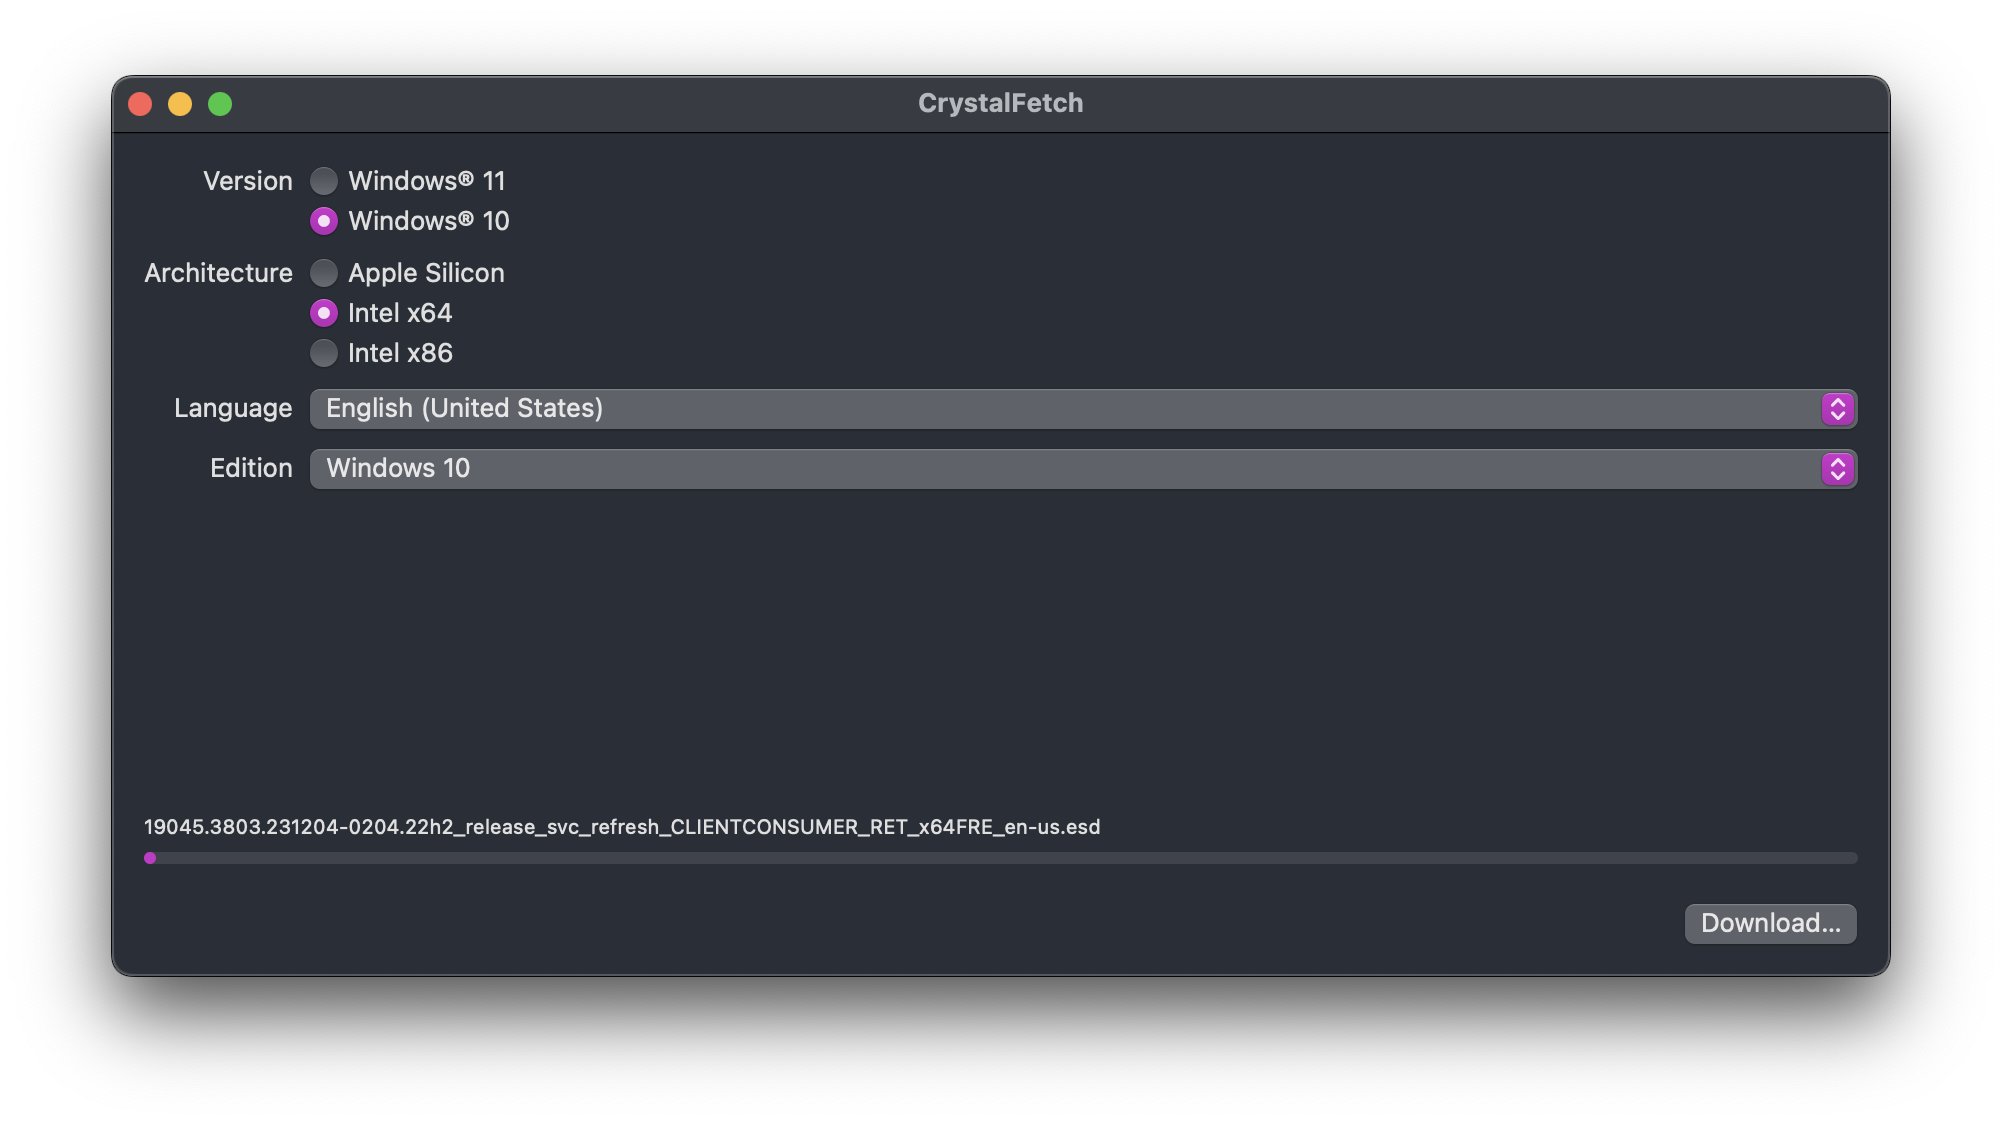
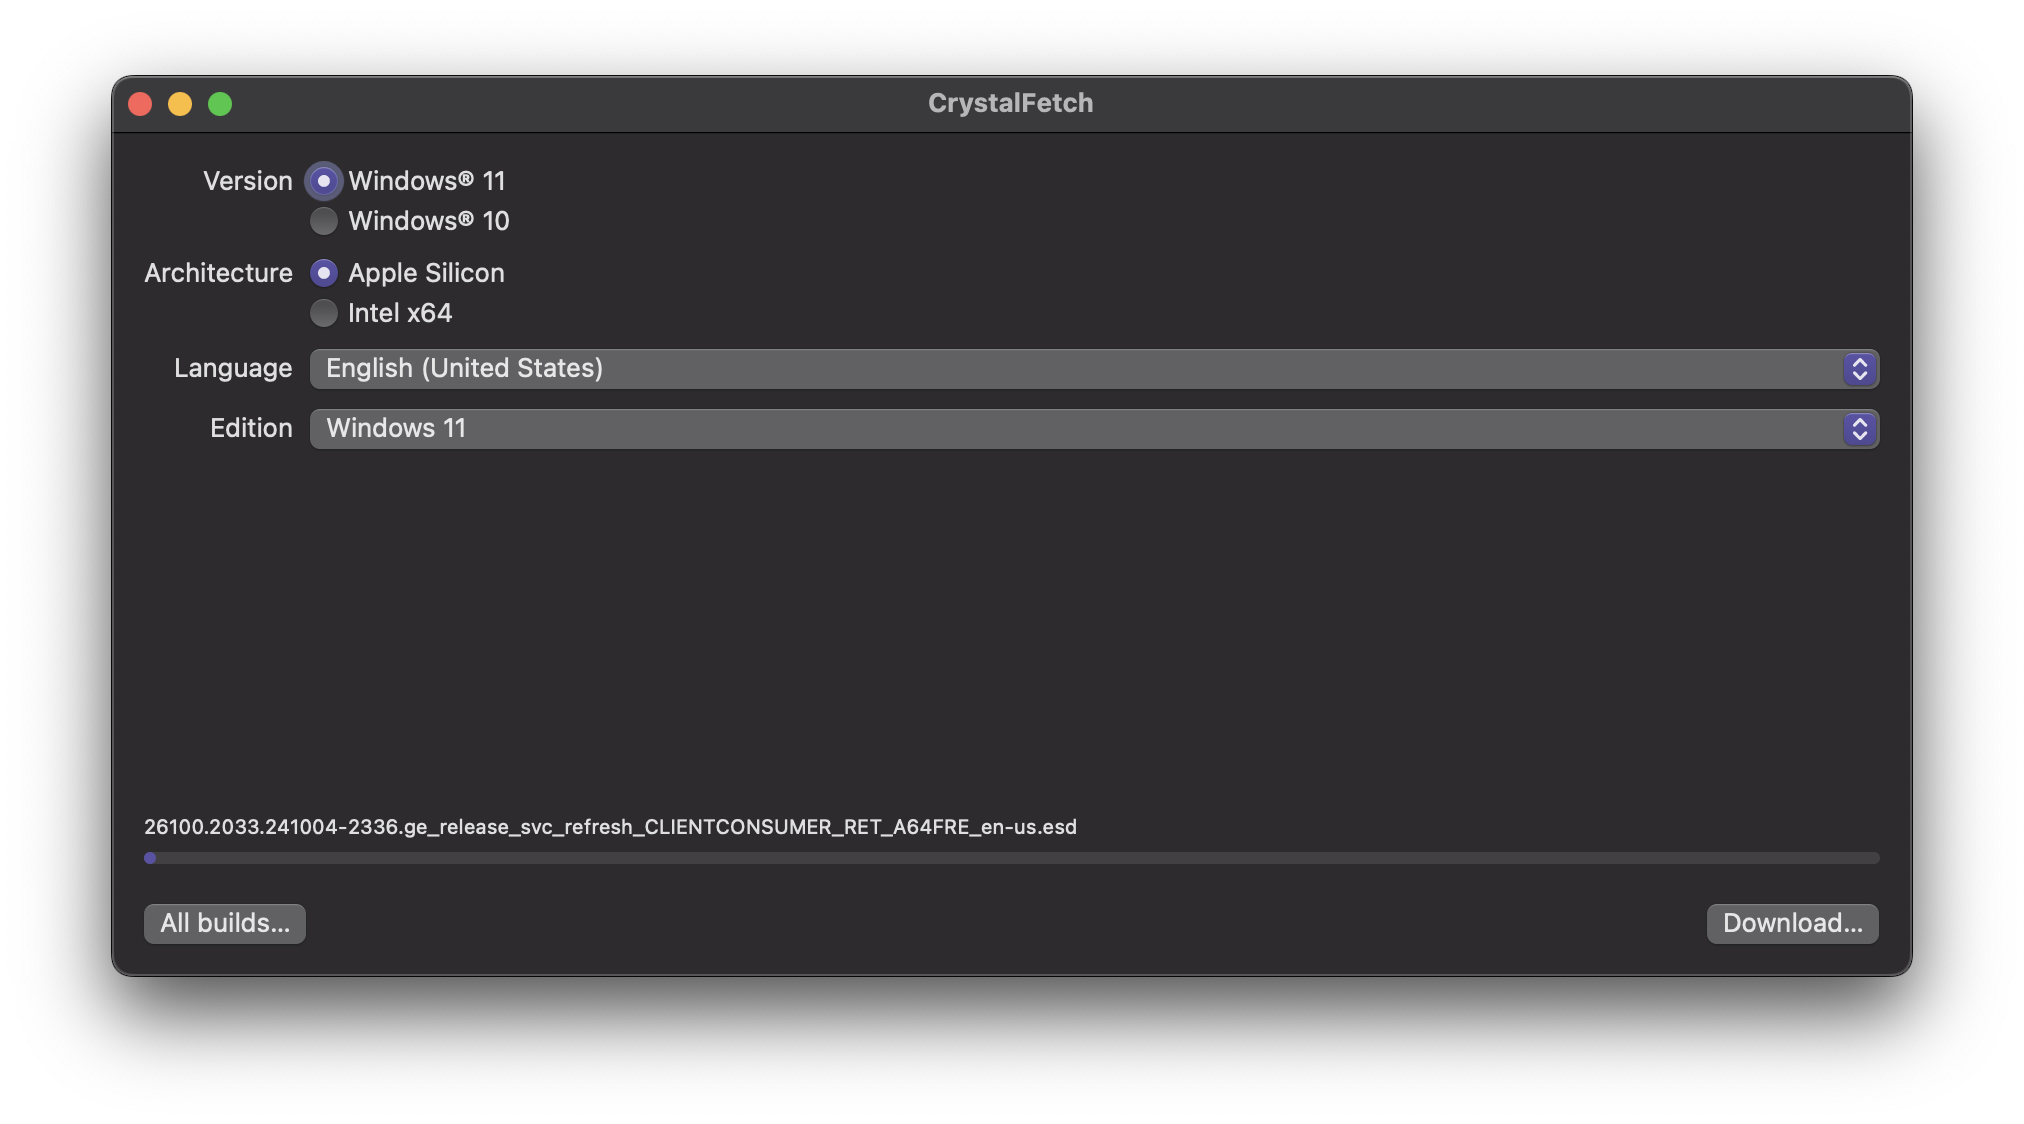
Add virtual machine docs

diff --git a/docs/MacOS/4.virtualization/3.virtual-machine.md b/docs/MacOS/4.virtualization/3.virtual-machine.md
@@ -10,8 +10,8 @@ id: setup-vm
 To install Windows on the virtual machine, you will need a Windows ISO file. You can skip this section if you already have a Windows ISO file.
 
 1. Open the `CrystalFetch` app.
-2. Select `Windows 10` from the list of versions
-3. Select `Intel x64` from the list of architectures
+2. Select `Windows 11` from the list of versions (`Windows 10` should also work, but we recommend using `Windows 11`).
+3. Select `Apple Silicon` from the list of architectures
 4. Select any language you prefer, or leave it as default, which should be `English (United States)`
 5. Press `Download...` to download the Windows ISO file
 6. Select your preferred download location (your `Downloads` folder is probably the default and good enough) and press `Move`.
@@ -25,7 +25,7 @@ To install Windows on the virtual machine, you will need a Windows ISO file. You
    When launching UTM for the first time, you may get a pop-up asking if you want to open it. Press `Open`. You may also get a "What's New" pop-up after it opens. Just press `Continue` to go to the next step.
    :::
 2. Click on `Create New Virtual Machine`
-3. Select `Emulate` and click `Windows`
+3. Select `Virtualize` and click `Windows`
 4. Make sure these settings are selected:
    - `Install Windows 10 or higher` is checked
    - `Import VHDX Image` is unchecked
@@ -33,12 +33,14 @@ To install Windows on the virtual machine, you will need a Windows ISO file. You
    ![UTM](./img/utm_windows.png)
 5. Press `Browse...` and select the Windows ISO file you downloaded earlier, then press `Continue`.
 6. Select the following settings:
-   - `Architecture`: `x86_64`
-   - `System`: `Standard PC (Q35 + ICH9, 2009) (alias of pc-q35-7.2) (q35)`
    - `Memory`: `4096 MB` (4 GB) or more
    - `CPU Cores`: `4` or more
 
-   ![UTM](./img/utm_hardware.png)
+:::note
+We recommend setting the memory to 8 GB and the CPU cores to 8 if you have enough resources.
+:::
+
+   ![UTM](img/utm_hardware.png)
 7. Press `Continue`. The default of 64GiB is fine for the disk size, but you can increase it if you want. Press `Continue` again.
 8. If you wish to make a folder that is shared between macOS and your virtual machine, you can set it up here. Otherwise, press `Continue`.
 9. Change the name of the virtual machine if you want, then press `Save`. Don't worry about the other settings.
@@ -46,22 +48,18 @@ To install Windows on the virtual machine, you will need a Windows ISO file. You
 ## 3. Configuring the Virtual Machine
 
 1. Click on the virtual machine you just created and press the configure button ![Configure Button](./img/slider.horizontal.3.svg), which is next to the play button in the upper right corner.
-2. Click on `System` in the left sidebar.
-3. Enable `Force Multicore`.
-4. Click on `Display` in the left sidebar.
-5. Enable `Resize display to window size automatically`.
-6. Scroll down in the left sidebar and look through the list of IDE drives. You should see three drives. Find the one that has its `Image Type` set to `Disk Image` and click on it.
-7. Change the `Interface` to `NVMe`. This will make identifying the drive easier later.
-8. Press `Save`.
-9. Press `Command + ,` to open UTM settings.
-10. Click `Display` in the top bar.
-11. Change the `Renderer Backend` to `ANGLE (Metal)`.
-12. Close the settings window.
+2. Click on `Display` in the left sidebar.
+3. Ensure `Resize display to window size automatically` is ticked.
+4. Press `Save`.
+5. Press `Command` + `,` to open UTM settings.
+6. Click `Display` in the top bar.
+7. Change the `Renderer Backend` to `ANGLE (Metal)`.
+8. Close the settings window.
 
 ## 4. Installing Windows
 
 :::important
-If you see "Windows Guest Support Tools" under `Pending` in your sideba
+If you see "Windows Guest Support Tools" under `Pending` in your sidebar, wait for it to finish installing before proceeding.
 :::
 
 1. Click on the virtual machine you created and press the play button in the upper right corner.
@@ -69,8 +67,8 @@ If you see "Windows Guest Support Tools" under `Pending` in your sideba
 3. Wait for the installer to load.
 4. Follow the instructions to install Windows.
    - When asked for a product key, you can skip it by pressing `I don't have a product key`. We will activate Windows later.
-   - Select `Windows 10 Pro N` when asked which version to install. We use the `N` edition because it has better privacy, but it doesn't really matter if you don't use the `N` edition.
-   - When asked for a partition to install Windows on, there should be only one option in the list. Select it and press `Next`.
+   - Select `Windows 11 Pro` when asked which version to install.
+   - When asked where to install Windows on, there should be only one option in the list. Select it and press `Next`.
 5. Wait for Windows to install. This will take a while.
 6. The installer will restart the virtual machine.
 
@@ -78,17 +76,5 @@ If you see "Windows Guest Support Tools" under `Pending` in your sideba
 
 Wait for the Windows setup screen to show up. Setting up Windows is quite straightforward. Just follow the instructions on the screen. However, there are a few things to note:
 
-1. Turn off WiFi after completing the Basics section. You can turn it back on after activating Windows.
-2. If you get any errors that start with `OOBE`, just click `Skip`.
-3. Deny all privacy settings. Any settings that ask for your location, microphone, camera, etc., should be denied.
-4. When asked about Cortana, select `Not now`.
-5. If you are asked to sign in with a Microsoft account, select `Offline account` and then `Limited experience`.
-
-The setup for Windows 11 is slightly different though. To set up Windows 11, follow these steps:
-
-1. Select your language and then your keyboard layout
-2. Press `Shift + Fn + F10` to open Command Prompt
-3. Type in `oobe\bypassnro`, press `Enter`, and wait for your computer to restart.
-4. Continue through with setup, but:
-   - Do not connect to the internet
-   - Deny each option in the Privacy section
+1. Windows may restart a few times during the setup process. This is normal. Do not spam any keys during these restarts.
+2. If you get stuck on a screen with the UTM logo and a spinning circle after a restart, feel free to restart the virtual machine by closing the window and pressing the play button again.

diff --git a/docs/MacOS/4.virtualization/4.post-install.md b/docs/MacOS/4.virtualization/4.post-install.md
@@ -1,0 +1,49 @@
+---
+sidebar_position: 4
+--- 
+
+# Post-Install Steps
+
+All of the steps in this section are technically optional, but it's highly recommended to follow these steps to make your virtual machine run better. By default, the virtual machine will work fine, but it will be quite slow and not as good as it could be. These steps will make your virtual machine run faster and more smoothly.
+
+## 1. Installing UTM Tools
+
+UTM Tools are a set of drivers and tools that make the virtual machine run better. They are not required, but they are recommended. They allow us to resize the window freely, share files between macOS and Windows, and more.
+
+A window should have popped up the fist time you logged into Windows, asking you to install UTM Guest Tools. If you closed that window, follow these steps to install UTM Guest Tools:
+
+1. Open the Start menu and search for `File Explorer`.
+2. Go to `This PC` and open the `CD Drive` titled `UTM Guest Tools` by double-clicking on it.
+3. Run the `utm-guest-tools-0.299.exe` file by double-clicking it. The number may be different depending on the version of UTM you are using, but it should be similar.
+4. Click `Next`, `I Agree`, and wait for UTM Guest Tools to be installed.
+5. Click `Finish`.
+
+## 2. Activating Windows
+
+Windows will work fine without activation, but it's best to activate it to remove the watermark and unlock all features. If you have a product key, you can use it to activate Windows. However, we'll assume you don't have a product key and will use a free method to activate Windows.
+
+1. Open the Start menu and search for `Powershell`.
+2. Run the following command in Powershell:
+
+    ```powershell
+    irm https://get.activated.win | iex
+    ```
+
+    If that command doesn't work, use the following command:
+
+    ```powershell
+    irm https://massgrave.dev/get | iex
+    ```
+
+3. Once the new window pops up, press `1` and wait for the activation to complete. You will know when it's done because the window will tell you.
+4. Close the window and close Powershell.
+
+## 3. Cleaning Up Leftovers
+
+1. Open the Start menu and click on the power button.
+2. Click on `Shut down`.
+3. Wait for the virtual machine to shut down.
+4. Close the UTM window.
+5. Open UTM again and click on the virtual machine you created.
+6. Click on the settings button in the upper right corner, next to the play button.
+7. Scroll down in the left sidebar and delete the two USB drives by clicking on them and selecting `Delete`.
